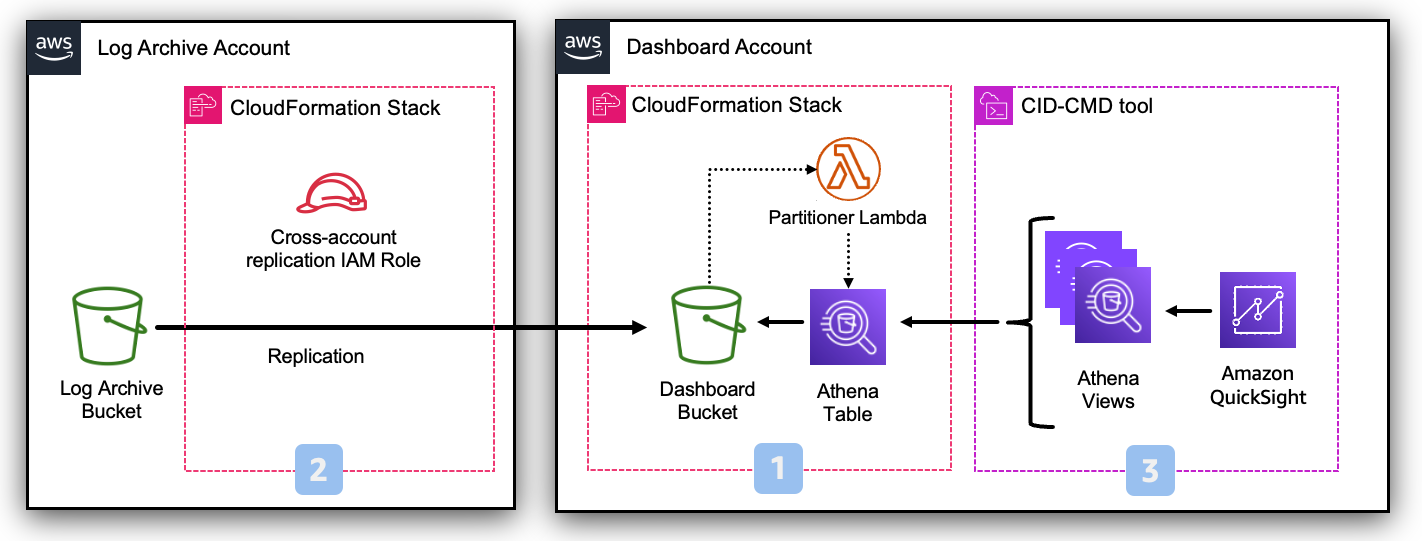
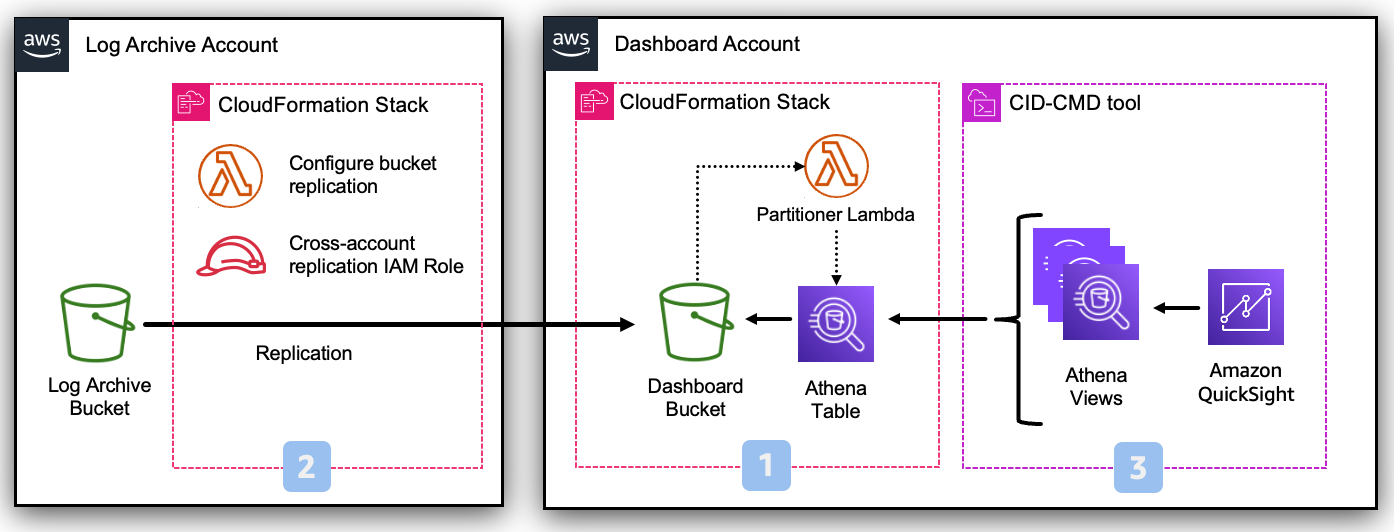
documented the temporary lambda functions that perform some of the configuration

diff --git a/README.md b/README.md
@@ -195,7 +195,9 @@ Log into the AWS Management Console for your **Log Archive account**.
    - `Log Archive bucket` Enter the name of the Amazon S3 bucket that collects AWS Config data.
    - `Dashboard account ID` Enter the same value as the `Log Archive account ID`. 
    - `Dashboard bucket` Enter the same value as the `Log Archive bucket`.
-   - `Configure S3 event notification` Select `yes` to configure S3 event notifications. This will trigger a Lambda function to create the corresponding partition on Amazon Athena, when a new AWS Config file is delivered to the Log Archive bucket. If you have already configured event notifications on the Log Archive bucket, select `no`. You'll have to manually configure S3 event noptifications (more details below).
+   - `Configure S3 event notification` Select `yes` to configure S3 event notifications. This will trigger the **Partitioner** Lambda function, which will create the corresponding partition on Amazon Athena, when a new AWS Config file is delivered to the Log Archive bucket. Select `no` if you have already configured event notifications on the Log Archive bucket. You'll have to manually configure S3 event noptifications (more details below). 
+     - The S3 event notification configuration is performed by an ad-hoc Lambda function (**Configure bucket notification** in the diagram above) that will be called by the CloudFormation template automatically. 
+     - The **Configure bucket notification** function will return an error (and the entire stack will fail) if you have already configured event notifications on the Log Archive bucket. In this case you must select `no` and run the stack again.
    - `Configure cross-account replication` Leave at the default value. This parameter is ignored in this deployment mode.
    - Leave all other parameters at their default value.
 1. Run the CloudFormation template.
@@ -306,10 +308,12 @@ Log into the AWS Management Console for your **Log Archive account**.
    - `Dashboard bucket` Insert the bucket name that you specified in this field at Step 1.
    - `Configure S3 event notification` Leave at the default value. This parameter is ignored in this deployment mode.
    - `Configure cross-account replication` Select `yes` to configure S3 replication from the Log Archive bucket to the Dashboard bucket. If you already have configured S3 replication on the Log Archive bucket, select `no`. You'll have to manually configure S3 replication (more details below).
-     - Please notice that if you select `yes`, any existing S3 replication configuration will be overwritten!
+     - The S3 replication configuration is performed by an ad-hoc Lambda function (**Configure bucket replication** in the diagram above) that will be called by the CloudFormation template automatically. 
+     - Please notice that if you select `yes`, and you have existing S3 replication configurations, the **Configure bucket replication** function will return an error and the entire stack will fail. In this case you must select `no` and run the stack again.
    - Leave all other parameters at their default value.
 1. Run the CloudFormation template.
 1. Note down the output values of the CloudFormation template.
+
 
 ##### Step 3
 Log back into the AWS Management Console for your **Log Archive account**.
